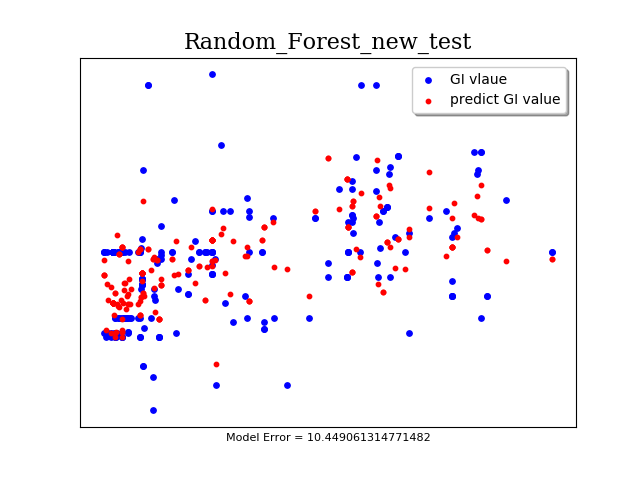
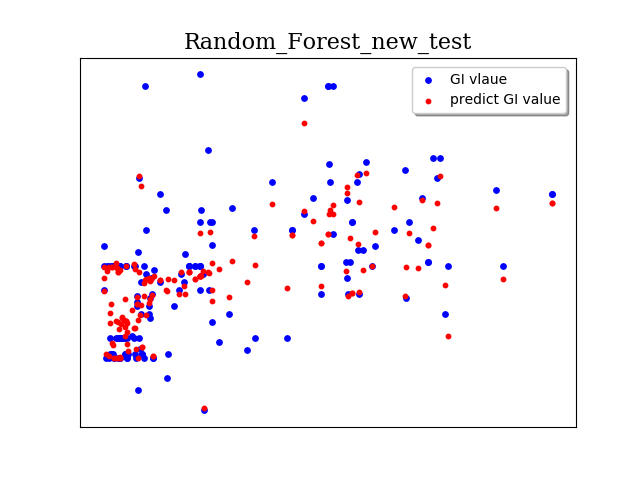
added RF graph - variable importance is good here git push origin mastergit push origin mastergit push origin master!

diff --git a/Machine_Learning/random_forest.py b/Machine_Learning/random_forest.py
@@ -129,18 +129,20 @@ from sklearn.ensemble import RandomForestRegressor
 from sklearn.metrics import mean_absolute_error
 from sklearn.model_selection import RandomizedSearchCV
 import numpy as np
-from sklearn.externals.six import StringIO
-import pydotplus
+import pandas as pd
 import seaborn as sns
 import matplotlib.pyplot as plt
 import os
 
-from sklearn.tree import export_graphviz
-
 
 def predict(X_train, X_test, y_train, y_test, lables, pic_name1, pic_name2):
+    # rf = RandomForestRegressor(random_state=42)
+    #
+    # print("parameters currently in use by rnadom forest: ")
+    # print(rf.get_params())
+
     # Number of trees in random forest
-    n_estimators = [int(x) for x in np.linspace(start=10, stop=12, num=10)]
+    n_estimators = [int(x) for x in np.linspace(start=100, stop=1000, num=10)]
     # Number of features to consider at every split
     max_features = ['auto', 'sqrt']
     # Maximum number of levels in tree
@@ -168,44 +170,40 @@ def predict(X_train, X_test, y_train, y_test, lables, pic_name1, pic_name2):
                                    random_state=42, n_jobs=-1)
     # Fit the random search model
     rf_random.fit(X_train, y_train)
-
     cv_predictions = rf_random.predict(X_test)
 
-    plot_predicts(rf_random, lables, X_test, y_test, cv_predictions, pic_name1, pic_name2)
+    print("final cv random forest model error: ", mean_absolute_error(y_test, cv_predictions))
 
-
-
-def plot_predicts(model, lables, X_test, y_test, predict, pic_name1, pic_name2):
-
-    error = mean_absolute_error(y_test, predict)
-
-    print("final cv random forest model error: ", error)
-
-    best_random = model.best_estimator_
+    best_random = rf_random.best_estimator_
     feature_imp = best_random.feature_importances_
 
     features_dict = dict(zip(lables, feature_imp))
-    f = [(d, c) for d, c in zip(lables, feature_imp)]
-    features_str = ""
-    for a, b in f:
-        features_str += a + ": " + str("%.4f" % b) + ", "
-    features_str = features_str[:-2]
+    # f = [(d, c) for d, c in zip(lables, feature_imp)]
+    # features_str = ""
+    # for a, b in f:
+    #     features_str += a + ": " + str(b) + ", "
+    # features_str = features_str[:-2]
 
-    indices = np.flip(np.argsort(feature_imp))
+    print(features_dict)
+
+    indices = np.argsort(feature_imp)
 
     plt.title('Random Forest - Feature Importance')
-    sns.barplot(x=feature_imp[indices], y=lables, linewidth=2.5)
+
+    sns.barplot(x=feature_imp, y=lables)
+    # Add labels to your graph
     plt.xlabel('Feature Importance Score')
     plt.ylabel('Features')
+    # plt.title("Visualizing Important Features")
+    plt.legend()
     plt.gcf().set_size_inches(15, 9.3, forward=True)
     if not os.getcwd().__contains__("Graphs & Photos"):
         os.chdir(os.getcwd()[:os.getcwd().index("Excel_files")] + "Graphs & Photos")
     plt.savefig(pic_name1 + '.png')
 
     plt.close()
-
     plt.scatter(X_test['Carbohydrt_(g)'], y_test, color='blue', s=15)
-    plt.scatter(X_test['Carbohydrt_(g)'], predict, color='red', s=10)
+    plt.scatter(X_test['Carbohydrt_(g)'], cv_predictions, color='red', s=10)
 
     plt.xticks(())
     plt.yticks(())
@@ -219,38 +217,14 @@ def plot_predicts(model, lables, X_test, y_test, predict, pic_name1, pic_name2):
             'size': 16,
             }
     plt.title(pic_name2, fontdict=font)
-    plt.xlabel('Model Error = ' +
-               str(mean_absolute_error(y_test, predict)) + '\n', fontsize=8)
+    # plt.xlabel('Model Error = ' + str(mean_absolute_error(y_test, predict)) + '\n' +
+    #            "coefficients: " + '\n' +
+    #            features_str, fontsize=5)
+
+    # plt.xlabel('Model Error = ' + str(mean_absolute_error(y_test, predict)) + '\n' +
+    #            "coefficients: " + '\n')
 
     if not os.getcwd().__contains__("Graphs & Photos"):
         os.chdir(os.getcwd()[:os.getcwd().index("Excel_files")] + "Graphs & Photos")
     plt.savefig(pic_name2 + '.png')
-
-    # draw_tree(m.estimators_[0], X_train, precision=3)
-
-    #
-    # dot_data = StringIO()
-    # export_graphviz(best_random, out_file=dot_data, feature_names=lables,
-    #                 filled=True, rounded=True,
-    #                 special_characters=False)
-    # graph = pydotplus.graph_from_dot_data(dot_data.getvalue())
-    # os.chdir(os.getcwd()[:os.getcwd().index("Excel_files")] + "Graphs & Photos")
-    # graph.write_png('RF_best_estimator_tree.png')
-
-
-
-
-
-
-
-
-
-
-
-
-
-
-
-
-
 

diff --git a/Machine_Learning/ML code.py b/Machine_Learning/ML code.py
@@ -128,11 +128,13 @@ if __name__ == '__main__':
 
 
 
-    X_train, X_test, y_train, y_test = split_to_train_test(ml_df)
+    # X_train, X_test, y_train, y_test = split_to_train_test(ml_df)
 
-    # X_train, X_test, y_train, y_test = get_train_and_test(ml_df)
-    # X_train = X_train.drop(['Food Description in 1994-96 CSFII'], axis='columns')
-    # X_test = X_test.drop(['Food Description in 1994-96 CSFII'], axis='columns')
+    X_train, X_test, y_train, y_test = get_train_and_test(ml_df)
+    X_train = X_train.drop(['Food Description in 1994-96 CSFII'], axis='columns')
+    X_test = X_test.drop(['Food Description in 1994-96 CSFII'], axis='columns')
+    X_train = X_train.drop(['FdGrp_desc'], axis='columns')
+    X_test = X_test.drop(['FdGrp_desc'], axis='columns')
 
     features = list(ml_df.columns.values)
     features.remove('GI Value')
@@ -179,6 +181,7 @@ if __name__ == '__main__':
 
 
 
+    # random_forest.predict(X_train, X_test, y_train, y_test, features, 'RF_variable_importance_new_test')
 
 
 
